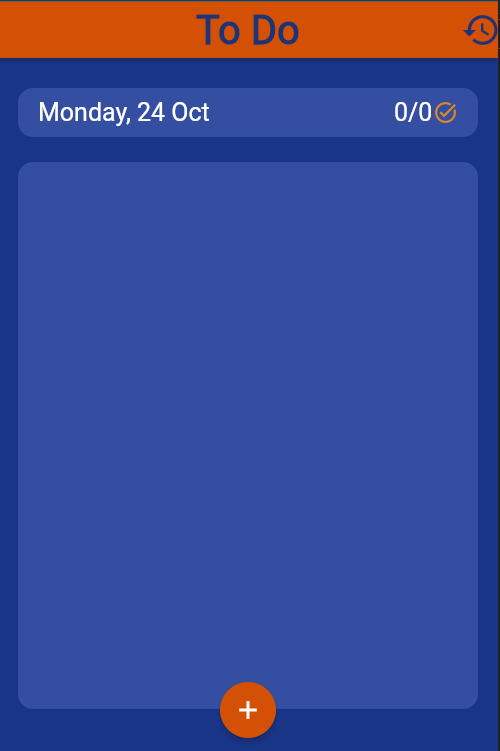
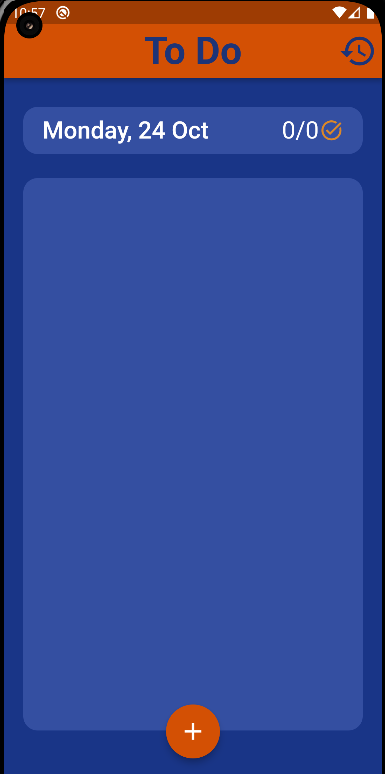
some fixes

Changed region(s): [[0.0, 0.0, 1.0, 1.0], [0.4364, 0.9188, 0.5922, 0.98]]

diff --git a/todo_app/lib/providers/tasks_provider.dart b/todo_app/lib/providers/tasks_provider.dart
@@ -14,12 +14,16 @@ class TasksProvider with ChangeNotifier {
     syncDataWithProvider();
   }
 
+  //return active tasks
   List<Task> get tasks => _tasks;
 
+  //return old done tasks
   List<Task> get history => _history;
 
+  //return active tasks count
   int get tasksCount => _tasks.length;
 
+  //return done active tasks count
   int get doneTasksCount {
     int count = 0;
     for (var task in _tasks) {
@@ -28,38 +32,45 @@ class TasksProvider with ChangeNotifier {
     return count;
   }
 
+  //return today date in custom format
   String get todayDate => DateFormat('EEEE, d MMM').format(DateTime.now());
 
+  //add new task to active tasks and update box
   void addNewTask({required task}) {
     _tasks.add(Task(task));
     notifyListeners();
     saveTasks();
   }
 
+  //delete the task with given index from active tasks and update box
   void deleteTask(int index) {
     _tasks.removeAt(index);
     notifyListeners();
     saveTasks();
   }
 
+  //check/unckeck the task with given index and update box
   void toggleDoneState(int index) {
     _tasks[index].toggleDoneState();
     notifyListeners();
     saveTasks();
   }
 
+  //update data in box
   void saveTasks() {
     String encodedData =
         json.encode((_tasks + _history).map((task) => task.toMap()).toList());
     _tasksBox.put("tasks", encodedData);
   }
 
+  //clear all old tasks from box
   void clearHistory() {
     _history = [];
     notifyListeners();
     saveTasks();
   }
 
+  //load encodedData from box
   List<Task> loadDataFromBox() {
     String? encodedData = _tasksBox.get("tasks");
     List<Task> tasks;
@@ -72,11 +83,13 @@ class TasksProvider with ChangeNotifier {
     return tasks;
   }
 
+  //load fake data for testing
   List<Task> loadDataFromTest() {
     TestData testData = TestData();
     return testData.getDummyTasks();
   }
 
+  //load data on initializing a TasksProvider object
   void syncDataWithProvider() {
     //load data
     List<Task> tasks = loadDataFromBox();

diff --git a/todo_app/lib/tests.dart b/todo_app/lib/tests.dart
@@ -1,5 +1,4 @@
 import 'models/task.dart';
-import 'dart:convert';
 
 class TestData {
   List<Map<String, dynamic>> data = [
@@ -56,7 +55,6 @@ class TestData {
   ];
 
   List<Task> getDummyTasks() {
-    return List<Task>.from(
-        json.decode(json.encode(data)).map((taskMap) => Task.fromMap(taskMap)));
+    return List<Task>.from(data.map((taskMap) => Task.fromMap(taskMap)));
   }
 }

diff --git a/todo_app/lib/widgets/date_history.dart b/todo_app/lib/widgets/date_history.dart
@@ -18,9 +18,10 @@ class DateHistory extends StatelessWidget {
           Text(
             date,
             style: const TextStyle(
-              fontSize: 32,
+              fontSize: 28,
               color: Colors.white,
               fontWeight: FontWeight.bold,
+              decoration: TextDecoration.underline,
             ),
           ),
           Column(

diff --git a/todo_app/lib/widgets/task_row.dart b/todo_app/lib/widgets/task_row.dart
@@ -35,7 +35,7 @@ class TaskRow extends StatelessWidget {
       ),
       trailing: Checkbox(
         value: task.isDone,
-        onChanged: (newValue) {
+        onChanged: (_) {
           context.read<TasksProvider>().toggleDoneState(taskId);
         },
       ),

diff --git a/todo_app/README.md b/todo_app/README.md
@@ -6,9 +6,9 @@
 ## Screenshots:
 
 <p float="left">
-    <img src="imgs/todo_1.png" width="280" height="495"> 
-    <img src="imgs/todo_2.jpeg" width="280" height="495"> 
-    <img src="imgs/todo_3.png" width="280" height="495"> 
-    <img src="imgs/todo_4.jpeg" width="280" height="495"> 
-    <img src="imgs/todo_5.jpeg" width="280" height="495"> 
+    <img src="imgs/todo_1.png" width="280" height="520"> 
+    <img src="imgs/todo_2.jpeg" width="280" height="520"> 
+    <img src="imgs/todo_3.png" width="280" height="520"> 
+    <img src="imgs/todo_4.jpeg" width="280" height="520">
+    <img src="imgs/todo_5.jpeg" width="280" height="520"> 
 </p>
